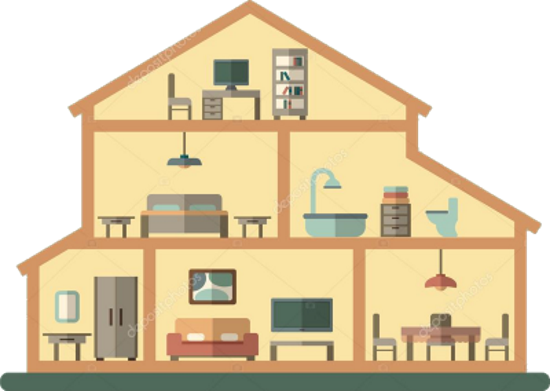
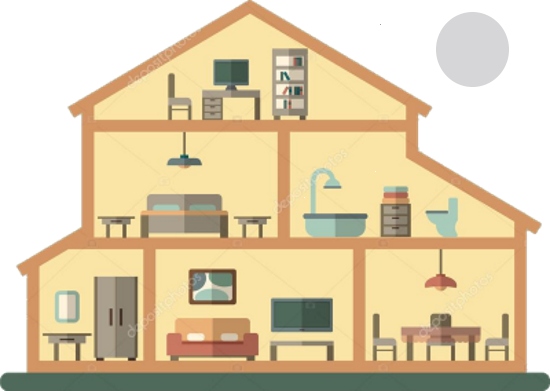
AllTheLightArea

Changed region(s): [[0.7727, 0.0307, 0.9273, 0.2455]]

diff --git a/index.html b/index.html
@@ -94,18 +94,26 @@
     <div style="margin:-600px 0px 0px 900px">
       <img src="src/media/image/maison.png" alt="" class="map" usemap="#maison" style="border-style:none">
     <map name="maison">
-      <area id="LivingRoomLight" title="LivingRoom" shape="rect" coords="155,249,353,360"
-        data-maphilight='{"strokeColor":"f4ff2d", "strokeWidth":5, "fillColor":"f4ff2d", "fillOpacity":0.6, "strokeOpacity": "1"}'/>
-      <area id="AreaEntranceLight" title="AreaEntranceLight" shape="rect" coords="365,249,514,360"
-        data-maphilight='{"strokeColor":"f4ff2d", "strokeWidth":5, "fillColor":"f4ff2d", "fillOpacity":0.6, "strokeOpacity": "1"}'/>
-      <area id="BedRoomLight" title="BedRoom" shape="rect" coords="93,131,277,237"
-        data-maphilight='{"strokeColor":"f4ff2d", "strokeWidth":5, "fillColor":"f4ff2d", "fillOpacity":0.6, "strokeOpacity": "1"}'/>
-      <area id="OfficeLight" title="Office" shape="poly" coords="93,105,93,119,406,119,406,105,249,13"
-        data-maphilight='{"strokeColor":"f4ff2d", "strokeWidth":5, "fillColor":"f4ff2d", "fillOpacity":0.6, "strokeOpacity": "1"}'/>
-      <area id="BathRoomLight" title="BathRoom" shape="poly" coords="289,131,289,237,514,237,514,221,406,157,406,131" class="group"
-        data-maphilight='{"strokeColor":"f4ff2d", "strokeWidth":5, "fillColor":"f4ff2d", "fillOpacity":0.6, "strokeOpacity": "1"}'/>
-      <area id="OutDoorLight" title="OutDoor" shape="poly" coords="39,360,143,360,143,249,67,249,39,266"
-        data-maphilight='{"strokeColor":"f4ff2d", "strokeWidth":5, "fillColor":"f4ff2d", "fillOpacity":0.6, "strokeOpacity": "1"}'/>
+      <area id="LivingRoomLight" title="LivingRoomLight" class="group" shape="rect" coords="155,249,353,360"
+        data-maphilight='{"strokeColor":"A87550", "strokeWidth":5, "fillColor":"f4ff2d", "fillOpacity":0.6, "strokeOpacity": "1"}'/>
+
+      <area id="AreaEntranceLight" title="AreaEntranceLight" class="group" shape="rect" coords="365,249,514,360"
+        data-maphilight='{"strokeColor":"A87550", "strokeWidth":5, "fillColor":"f4ff2d", "fillOpacity":0.6, "strokeOpacity": "1"}'/>
+
+      <area id="BedRoomLight" title="BedRoomLight" class="group" shape="rect" coords="93,131,277,237"
+        data-maphilight='{"strokeColor":"A87550", "strokeWidth":5, "fillColor":"f4ff2d", "fillOpacity":0.6, "strokeOpacity": "1"}'/>
+
+      <area id="OfficeLight" title="OfficeLight" class="group" shape="poly" coords="93,105,93,119,406,119,406,105,249,13"
+        data-maphilight='{"strokeColor":"A87550", "strokeWidth":5, "fillColor":"f4ff2d", "fillOpacity":0.6, "strokeOpacity": "1"}'/>
+
+      <area id="BathRoomLight" title="BathRoomLight" class="group" shape="poly" coords="289,131,289,237,514,237,514,221,406,157,406,131" class="group"
+        data-maphilight='{"strokeColor":"A87550", "strokeWidth":5, "fillColor":"f4ff2d", "fillOpacity":0.6, "strokeOpacity": "1"}'/>
+
+      <area id="OutDoorLight" title="OutDoorLight" class="group" shape="poly" coords="39,360,143,360,143,249,67,249,39,266"
+        data-maphilight='{"strokeColor":"A87550", "strokeWidth":5, "fillColor":"f4ff2d", "fillOpacity":0.6, "strokeOpacity": "1"}'/>
+
+      <area id="AllTheLight" title="AllTheLight" shape="circle" coords="472,50,37.5"
+        data-maphilight='{"groupBy":".group","strokeColor":"f4ff2d", "strokeWidth":5, "fillColor":"f4ff2d", "fillOpacity":0.6, "strokeOpacity": "1"}'/>
     </map>
   </div>
   </body>

diff --git a/src/main/js/lightArea.js b/src/main/js/lightArea.js
@@ -4,6 +4,7 @@ function colorAreaLight() {
 
 function displayClikableArea() {
   $('.map').maphilight();
+
   $('#AreaEntranceLight').click(function(e) {
     onClickEntranceLightArea();
   });
@@ -12,20 +13,24 @@ function displayClikableArea() {
     onClickOutDoorLightArea();
   });
 
-  $('#BedRoom').click(function(e) {
+  $('#BedRoomLight').click(function(e) {
     onClickBedRoomLightArea();
   });
 
-  $('#LivingRoom').click(function(e) {
+  $('#LivingRoomLight').click(function(e) {
     onClickLivingRoomLightArea();
   });
 
-  $('#Office').click(function(e) {
+  $('#OfficeLight').click(function(e) {
     onClickOfficeLightArea();
   });
 
-  $('#BathRoom').click(function(e) {
+  $('#BathRoomLight').click(function(e) {
     onClickBathRoomLightArea();
+  });
+
+  $('#AllTheLight').click(function(e) {
+    onClickAllTheLightArea();
   });
 }
 
@@ -55,7 +60,7 @@ function onClickBedRoomLightArea() {
 
 function onClickLivingRoomLightArea() {
     var data = $('#LivingRoomLight').mouseout().data('maphilight') || {};
-    data.alwaysOn = !data.alwaysOn;
+    data.alwaysOn = !data.alwaysOn
     $('#LivingRoomLight').data('maphilight', data).trigger('alwaysOn.maphilight');
 }
 
@@ -69,4 +74,29 @@ function onClickBathRoomLightArea() {
     var data = $('#BathRoomLight').mouseout().data('maphilight') || {};
     data.alwaysOn = !data.alwaysOn;
     $('#BathRoomLight').data('maphilight', data).trigger('alwaysOn.maphilight');
+}
+
+function onClickAllTheLightArea() {
+  var data = $('#AllTheLight').mouseout().data('maphilight') || {};
+  data.alwaysOn = !data.alwaysOn
+  $('#AllTheLight').data('maphilight', data).trigger('alwaysOn.maphilight');
+
+  if (areaOff("#BedRoomLight")==data.alwaysOn) {
+    onClickBedRoomLightArea();
+  }
+  if (areaOff("#AreaEntranceLight")==data.alwaysOn) {
+    onClickEntranceLightArea();
+  }
+  if (areaOff("#OutDoorLight")==data.alwaysOn) {
+    onClickOutDoorLightArea();
+  }
+  if (areaOff("#LivingRoomLight")==data.alwaysOn) {
+    onClickLivingRoomLightArea();
+  }
+  if (areaOff("#BathRoomLight")==data.alwaysOn) {
+    onClickBathRoomLightArea();
+  }
+  if (areaOff("#OfficeLight")==data.alwaysOn) {
+    onClickOfficeLightArea();
+  }
 }

diff --git a/src/utils/utils.js b/src/utils/utils.js
@@ -19,3 +19,8 @@ function randomID() {
   tabID["ID"] = ID;
   return(tabID);
 }
+
+function areaOff(areaName){
+  var data = $(areaName).mouseout().data('maphilight') || {};
+  return !data.alwaysOn;
+}
